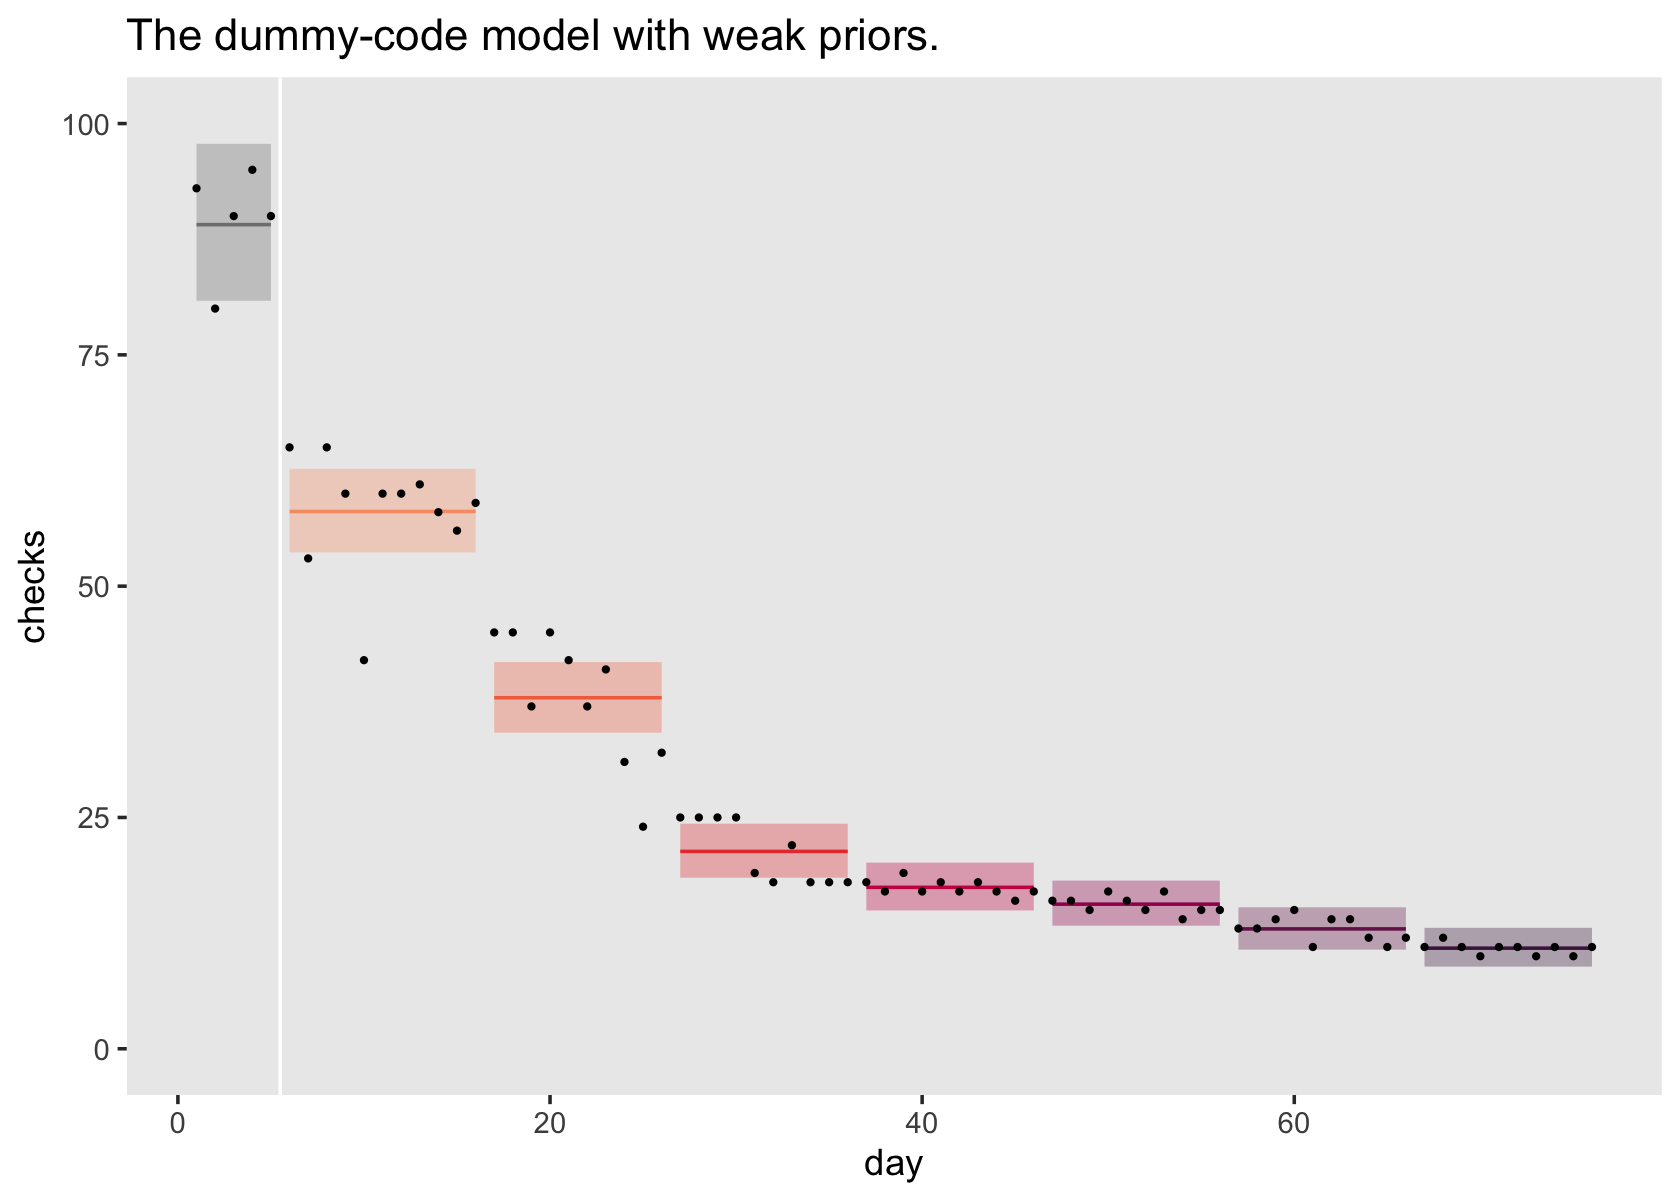
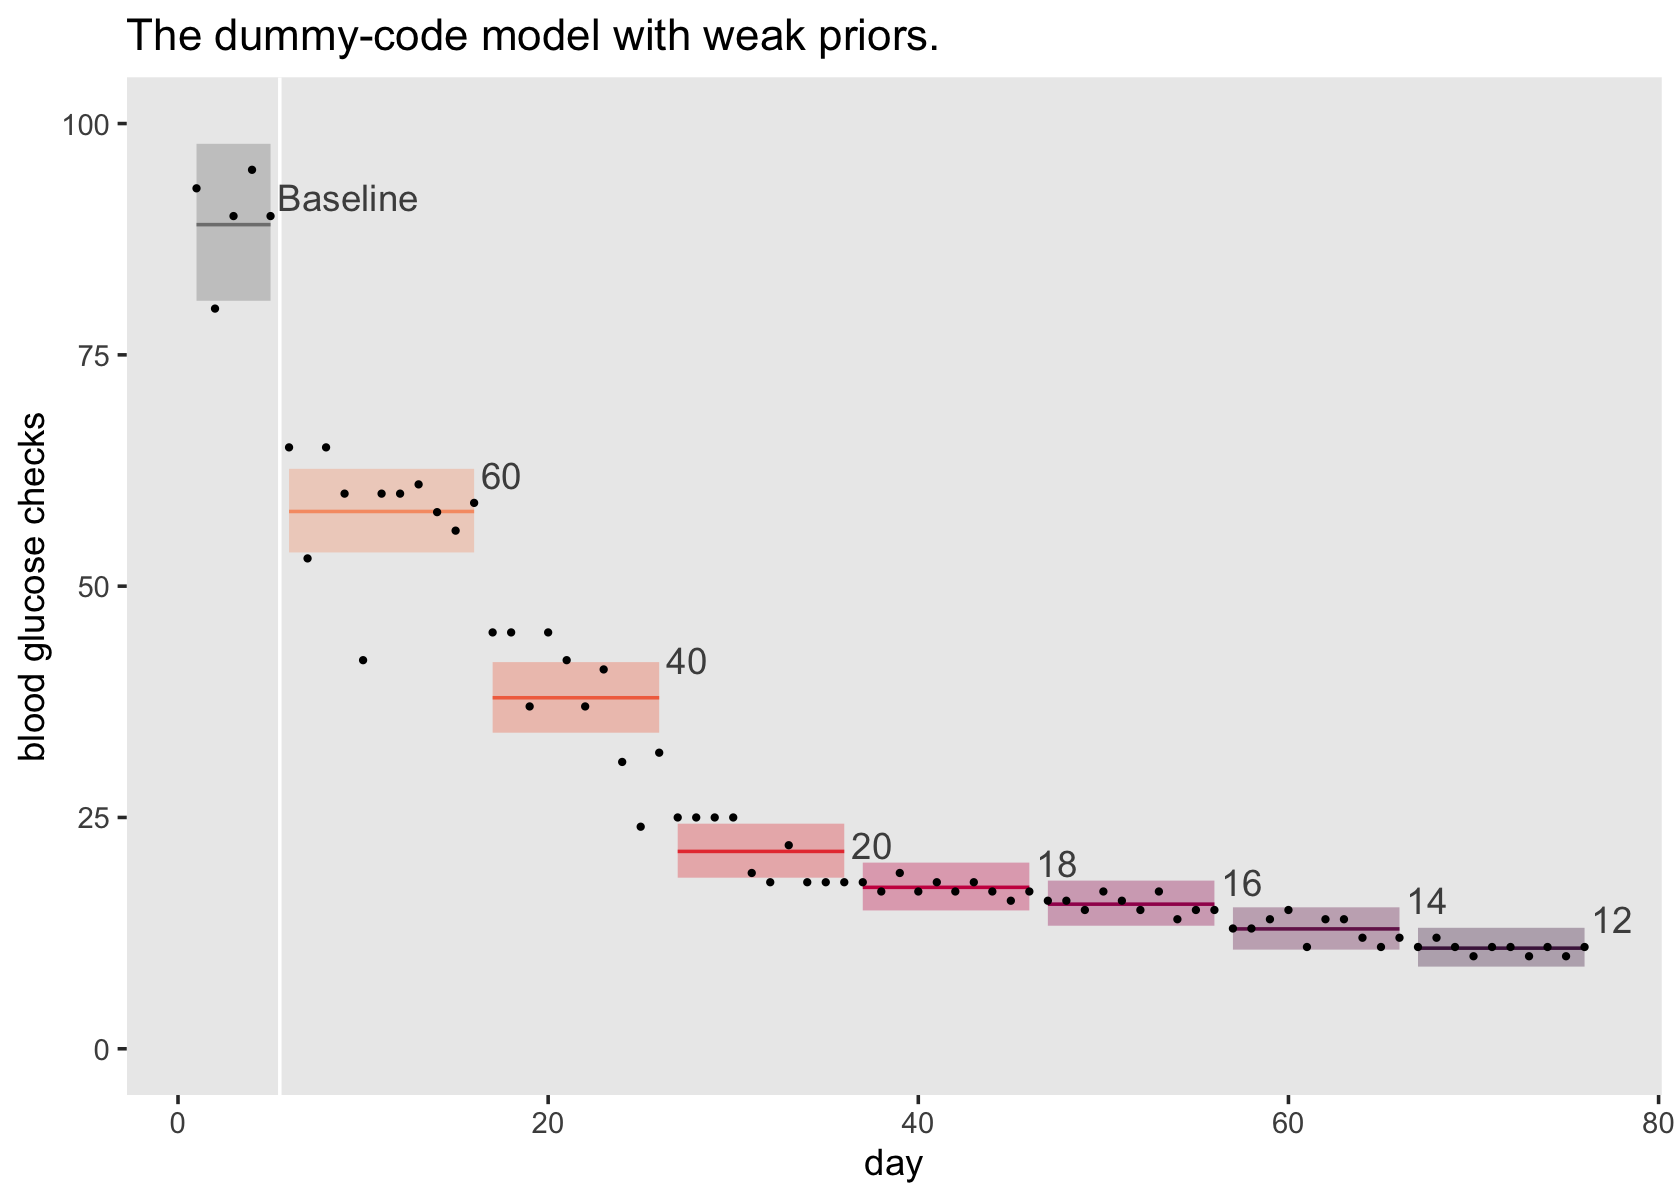
polish plots and flextable()

diff --git a/sketches/Allen---Evans--2001-.md b/sketches/Allen---Evans--2001-.md
@@ -395,9 +395,13 @@ fitted(fit1) %>%
   geom_line(aes(y = Estimate, color = factor(criterion))) +
   geom_point(aes(y = checks),
              size = 1/2) +
+  # for the text/numeral annotation
+  geom_text(data = label,
+            aes(y = checks, label = label),
+            hjust = 0, nudge_x = 0.4, nudge_y = 2, color = "grey30") +
   scale_fill_viridis_d(option = "F", begin = .2, end = .8, na.value = "grey50", breaks = NULL) +
   scale_color_viridis_d(option = "F", begin = .2, end = .8, na.value = "grey50", breaks = NULL) +
-  scale_y_continuous("checks", limits = c(0, 100)) +
+  scale_y_continuous("blood glucose checks", limits = c(0, 100)) +
   labs(title = "The dummy-code model with weak priors.")
 ```
 
@@ -609,9 +613,13 @@ fitted(fit2) %>%
   geom_line(aes(y = Estimate, color = factor(criterion))) +
   geom_point(aes(y = checks),
              size = 1/2) +
+  # for the text/numeral annotation
+  geom_text(data = label,
+            aes(y = checks, label = label),
+            hjust = 0, nudge_x = 0.4, nudge_y = 2, color = "grey30") +
   scale_fill_viridis_d(option = "F", begin = .2, end = .8, na.value = "grey50", breaks = NULL) +
   scale_color_viridis_d(option = "F", begin = .2, end = .8, na.value = "grey50", breaks = NULL) +
-  scale_y_continuous("checks", limits = c(0, 100)) +
+  scale_y_continuous("blood glucose checks", limits = c(0, 100)) +
   labs(title = "The one-hot model with theory-based priors.")
 ```
 
@@ -759,9 +767,13 @@ fitted(fit3) %>%
   geom_line(aes(y = Estimate, color = factor(criterion))) +
   geom_point(aes(y = checks),
              size = 1/2) +
+  # for the text/numeral annotation
+  geom_text(data = label,
+            aes(y = checks, label = label),
+            hjust = 0, nudge_x = 0.4, nudge_y = 2, color = "grey30") +
   scale_fill_viridis_d(option = "F", begin = .2, end = .8, na.value = "grey50", breaks = NULL) +
   scale_color_viridis_d(option = "F", begin = .2, end = .8, na.value = "grey50", breaks = NULL) +
-  scale_y_continuous("checks", limits = c(0, 100)) +
+  scale_y_continuous("blood glucose checks", limits = c(0, 100)) +
   labs(title = "It's almost shocking how well the theory-based model describes the data.")
 ```
 
@@ -834,16 +846,13 @@ fitted(fit1,
   group_by(effect) %>% 
   mean_qi(value) %>% 
   select(effect:.upper) %>% 
-  mutate_if(is.double, round, digits = 2)
+  mutate_if(is.double, round, digits = 2) %>% 
+  rename(mean = value,
+         lwr = .lower,
+         upr = .upper) %>% 
+  flextable() %>% 
+  width(width = 1.5)
 ```
-
-    ## # A tibble: 4 × 4
-    ##   effect             value .lower .upper
-    ##   <chr>              <dbl>  <dbl>  <dbl>
-    ## 1 (1 - B7 / A) * 100 87.8   85.0   90.2 
-    ## 2 A - B7             78.2   69.5   87.0 
-    ## 3 A / B7              8.27   6.66  10.3 
-    ## 4 B7 / A              0.12   0.1    0.15
 
 Our unstandardized pre/post mean difference is
 78.2, 95%CI \[69.5,87.0\]. The baseline checking rate was
